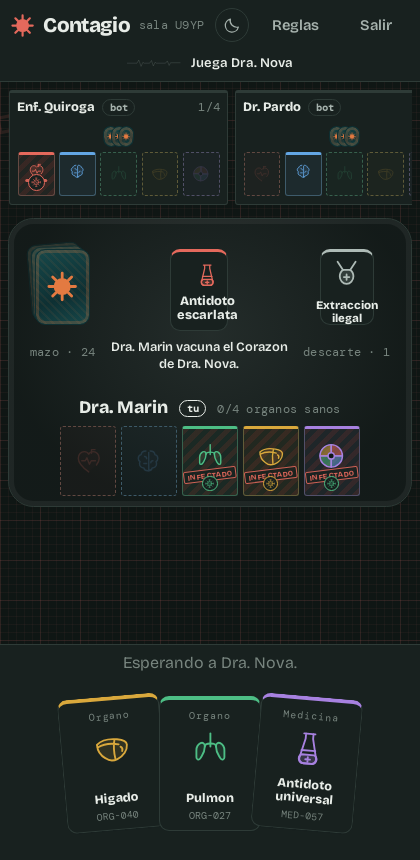
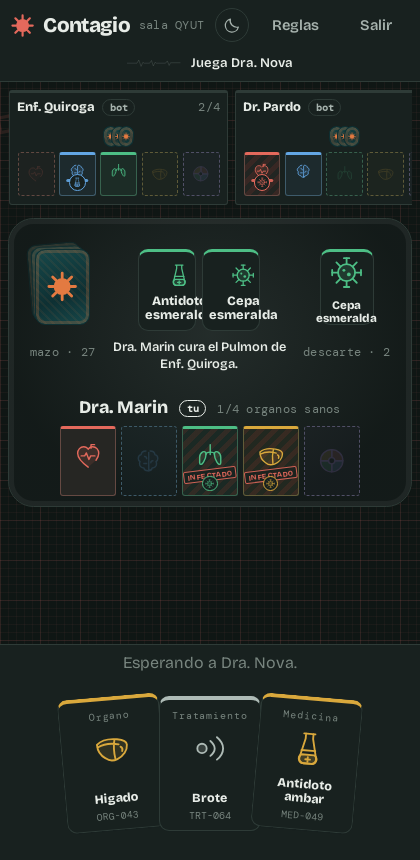
docs: contar el reloj del turno, los costados y como se juega cada carta

diff --git a/README.md b/README.md
@@ -34,7 +34,13 @@ Una partida se juega sola si nadie la lee. Tres decisiones hacen que los turnos 
   Hígado de Enf. Quiroga" — y el órgano afectado parpadea un instante.
 - **Cada cuerpo tiene cinco huecos fijos**, uno por color más el comodín, así que colocar una carta no mueve la mesa
   y se ve de un vistazo a quién le falta qué. Con cuatro rivales o más, los costados de la mesa se ocupan en lugar de
-  estrechar la fila de arriba.
+  estrechar la fila de arriba: ahí el asiento es grande, porque ese espacio no lo quiere nadie más.
+- **Todo se juega señalando su sitio**: el órgano cae en su hueco, el virus sobre el órgano que ataca y la negligencia
+  médica sobre la mesa entera del rival —esa, además, pregunta antes, porque cambiar el cuerpo completo no tiene
+  vuelta atrás.
+- **Un minuto por turno** (`TURN_LIMIT_MS`) cuando juega una persona, con un aro que se gasta junto al indicador de
+  turno. Si llega a cero, la mesa juega por ella con la misma heurística de los bots: nadie se queda esperando a
+  alguien que se ha levantado. Los bots no llevan reloj.
 - **El reparto se ve**: las cartas se barajan en el centro, salen una a una hacia cada jugador y el mazo se retira
   después a su sitio. Se puede saltar, y se omite si el sistema pide movimiento reducido.
 - **Quien abre sale por sorteo**, no es el anfitrión: abrir es una ventaja pequeña pero constante. El sorteo usa la
@@ -109,6 +115,7 @@ Cada sala vive en memoria y mantiene un temporizador para los bots, así que hay
 
 - **`MAX_ROOMS` (5)**: al llegar al tope, crear sala responde con un aviso de volver más tarde en lugar de servir seis
   partidas a tirones. Entrar con código a una sala existente sigue funcionando.
+- **`TURN_LIMIT_MS` (60 000)**: lo que dura el turno de una persona antes de que la mesa juegue por ella.
 - **`EMPTY_GRACE_MS` (60 000)**: una sala sin humanos conectados se cierra pasado ese margen. No es cero porque
   recargar la página es una desconexión: quien vuelve dentro de ese minuto se reencuentra su partida donde la dejó.
   Si no queda ni el asiento de un humano —todos se fueron del vestíbulo—, se cierra en el acto.
@@ -122,7 +129,8 @@ Cada sala vive en memoria y mantiene un temporizador para los bots, así que hay
 - `packages/server/test/smoke.test.mjs`: levanta el servidor real, juega una partida por socket con dos clientes y
   un bot, y verifica que termina con un ganador con cuatro órganos sanos. Comprueba además la política de salas: que
   al llegar al tope se rechaza crear una nueva, que el hueco se libera al soltarse una, y que una sala en partida se
-  cierra —y su código deja de existir— cuando pierde a todos sus humanos.
+  cierra —y su código deja de existir— cuando pierde a todos sus humanos. Y que el turno de una persona vence solo:
+  con un servidor aparte y un «minuto» de segundo y medio, la partida avanza sin que nadie juegue.
 
 ## Revisión visual
 
@@ -137,6 +145,14 @@ SHOT_THEME=dark SHOT_BOTS=5 node tools/shots.mjs   # la misma partida en oscuro,
 
 Avisa de cualquier desbordamiento durante la partida —la mesa tiene que caber en la ventana sin desplazador— y se
 planta si el puerto ya responde: si no, las capturas saldrían de otro servidor y hablarían de un código que ya no es.
+
+`tools/anchos.mjs` hace lo complementario: monta una partida de seis y recorre once tamaños de ventana, del monitor
+grande al móvil corto, comprobando que nada desborda y que la mesa sigue centrada. Salió de un fallo que solo se veía
+con pocos jugadores y en ventanas concretas.
+
+```bash
+node tools/anchos.mjs
+```
 
 Necesita un Chromium accesible por CDP en `localhost:9222`. En una máquina sin las librerías de escritorio:
 
